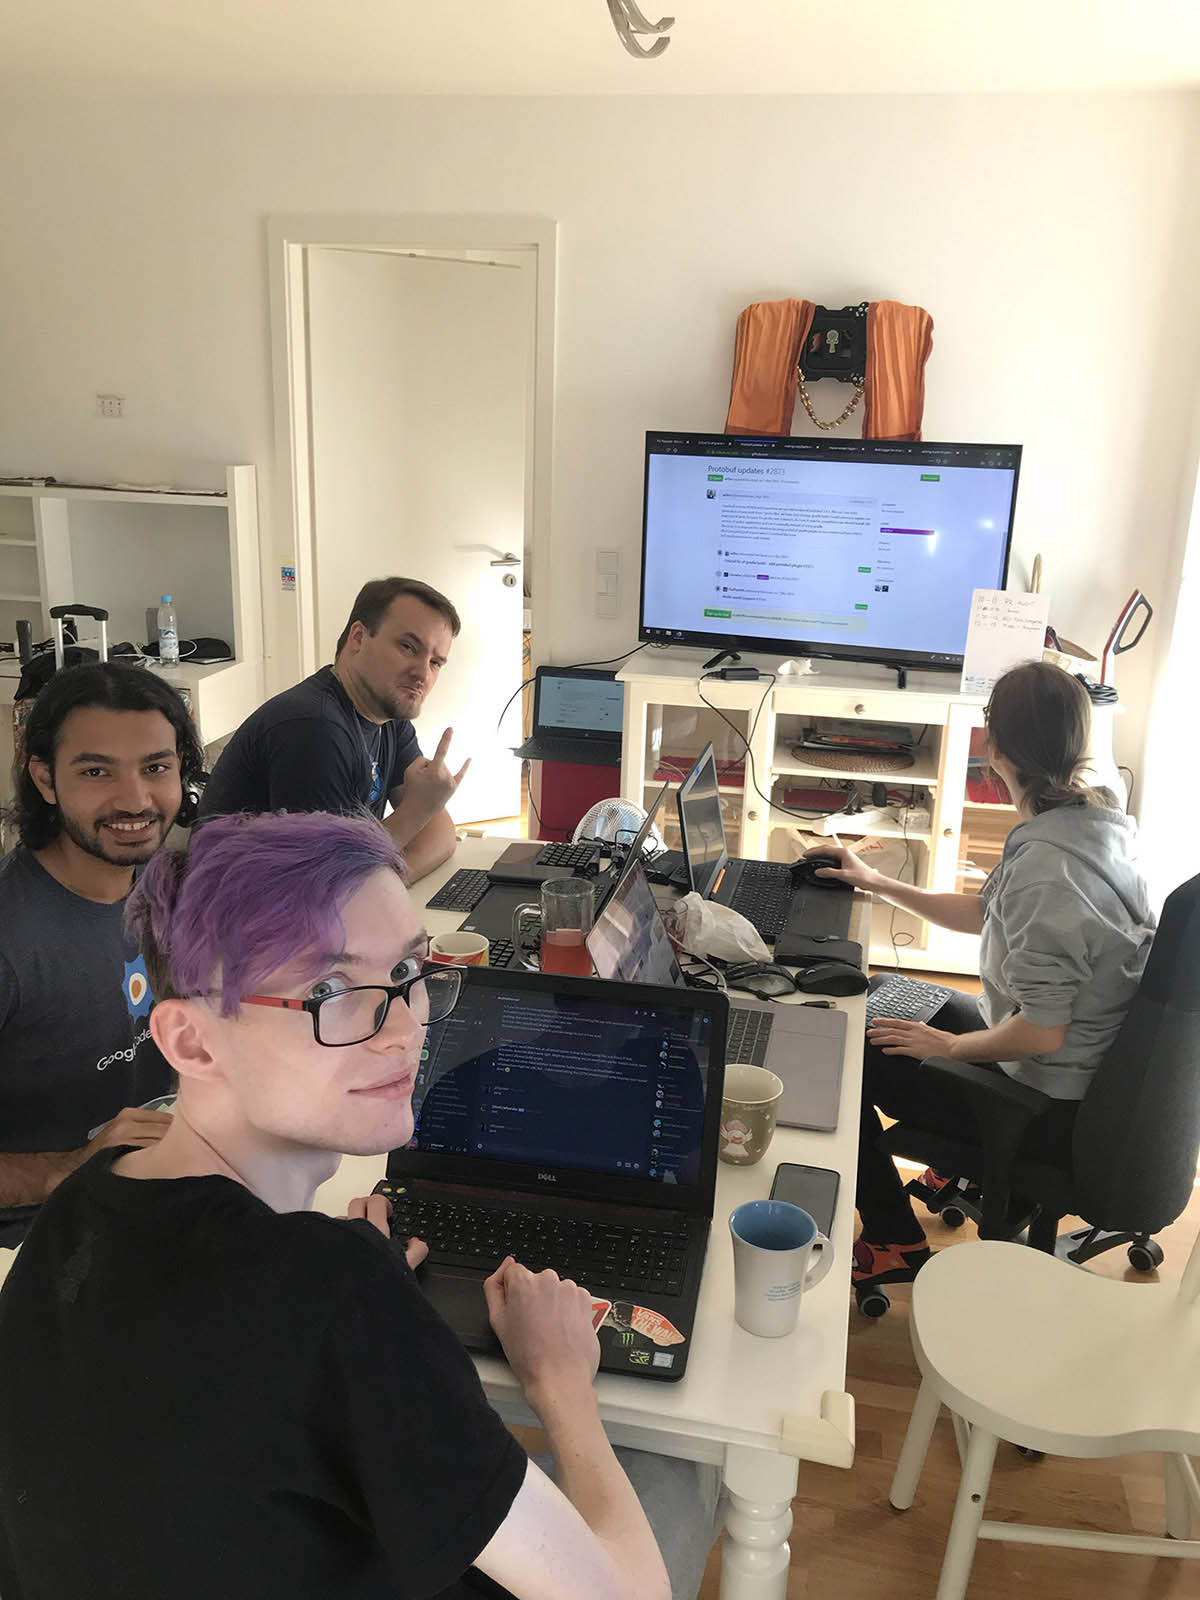
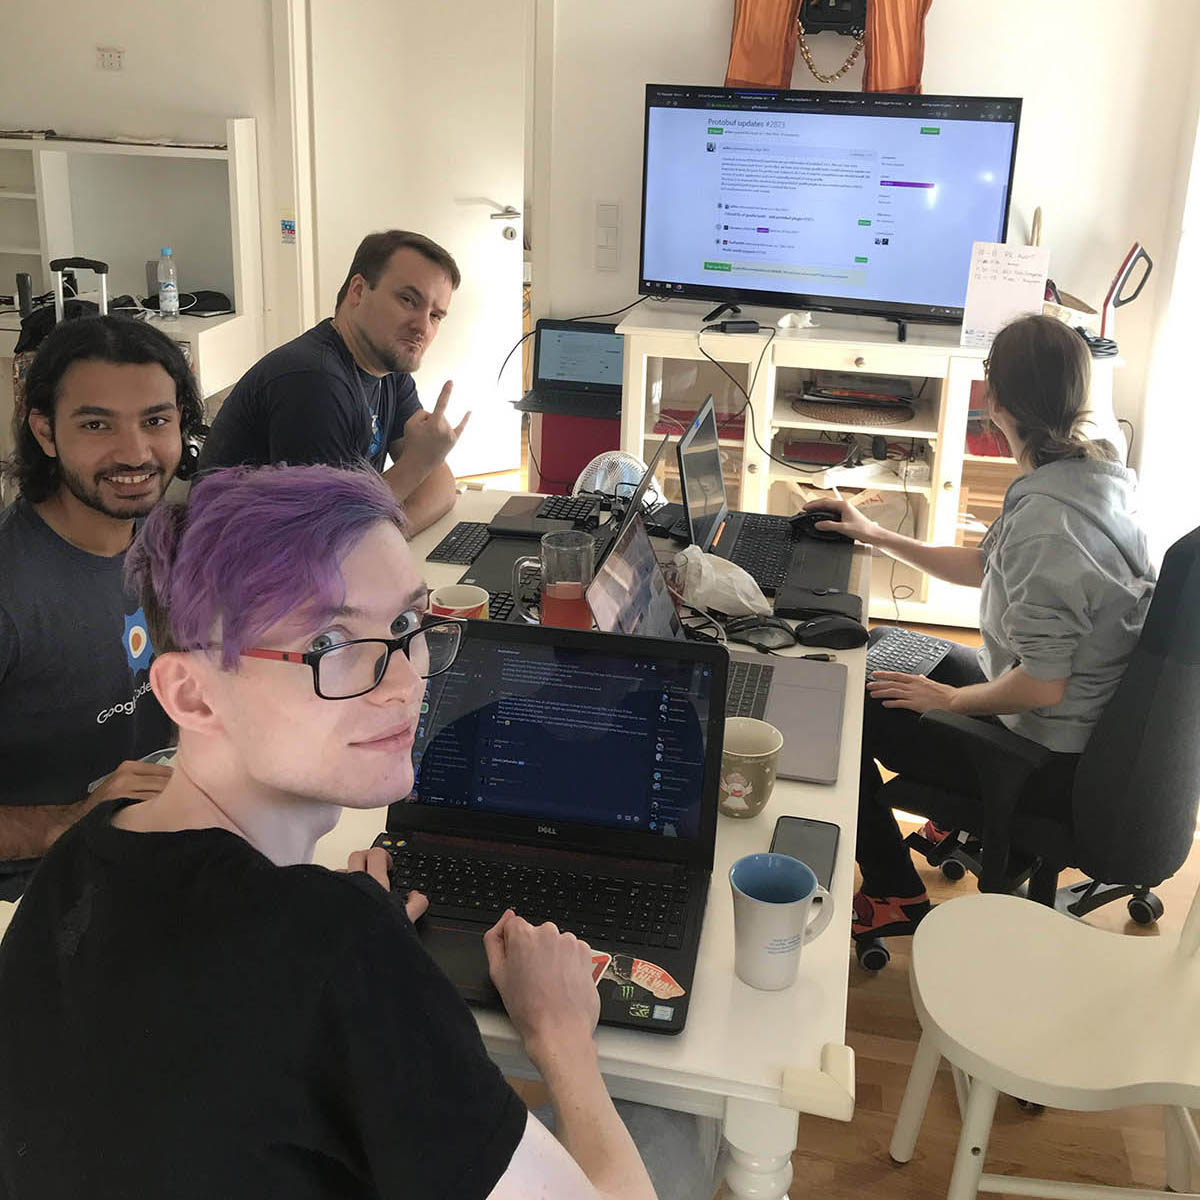
resize image and start writing draft

diff --git a/_drafts/munich-mentor-summit.md b/_drafts/munich-mentor-summit.md
@@ -6,14 +6,33 @@ description: >
   We took the opportunity of the Google Mentor Summit and added our own little
   <b>TeraCon</b> meetup in the Bavarian capital.
 author: Skaldarnar
-header-img: "img/2019-10-24-munich-mentor-summit/munich_beer.jpg"
+header-img: "/img/2019-10-24-munich-mentor-summit/munich_beer.jpg"
 ---
 
-Hello World
+## TeraCon 2019 - Munich Edition
+
+Contributing out part to the big [Merge-athon]- out of competition, though. 
+
+From Monday, October 14th, till Sunday, October 20th, we've [**merged 35
+PRs**][PRs-merged] and [created 9 new PRs (or drafts)][PRs-created].
+
+![Terasologist at Work - part 1]({{site.baseurl}}/img/2019-10-24-munich-mentor-summit/munich_group_01.jpg){:style="width:48%;float:left"}![Terasologist at Work - part 2]({{site.baseurl}}/img/2019-10-24-munich-mentor-summit/munich_group_02.jpg){:style="width:48%;float:right"}
+
+
+## Google Mentor Summit
+
+The remainder of the week was reserved for the [Mentor Summit], hosted by Google at the Marriott Hotel Munich. We were among 318 attendees from 42 countries. The 10 Google volunteers made a great job organizing everything and giving us a great time - Thanks to all of you!
+
+
 
 <!-- References -->
 [DestSol]: http://destinationsol.org/
 [GSOC]: https://summerofcode.withgoogle.com/
+[Merge-athon]: https://github.com/MovingBlocks/Terasology/issues/3737
+[Mentor Summit]: https://sites.google.com/view/gsoc-mentorsummit2019/home
 [Terasology Launcher]: https://github.com/MovingBlocks/TerasologyLauncher
 [Terasology]: https://terasology.org
 [The Terasology Foundation]: https://summerofcode.withgoogle.com/organizations/4777549354237952
+
+[PRs-merged]: https://github.com/search?q=org%3AMovingBlocks+org%3ATerasology+is%3Apr+created%3A2019-10-14..2019-10-20+is%3Amerged&type=Issues
+[PRs-created]: https://github.com/search?q=org%3AMovingBlocks+org%3ATerasology+is%3Apr+created%3A2019-10-14..2019-10-20+is%3Aopen&type=Issues
